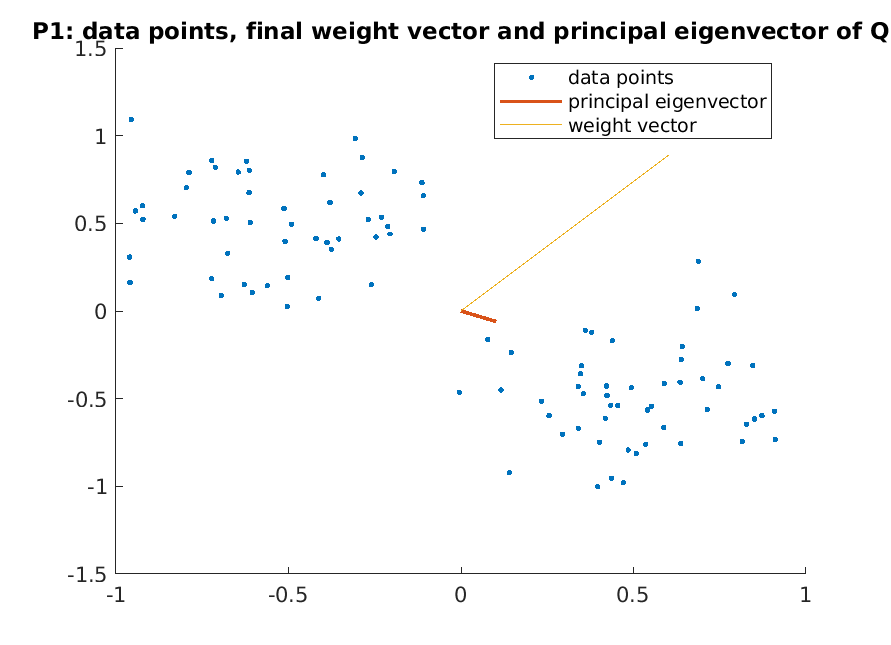
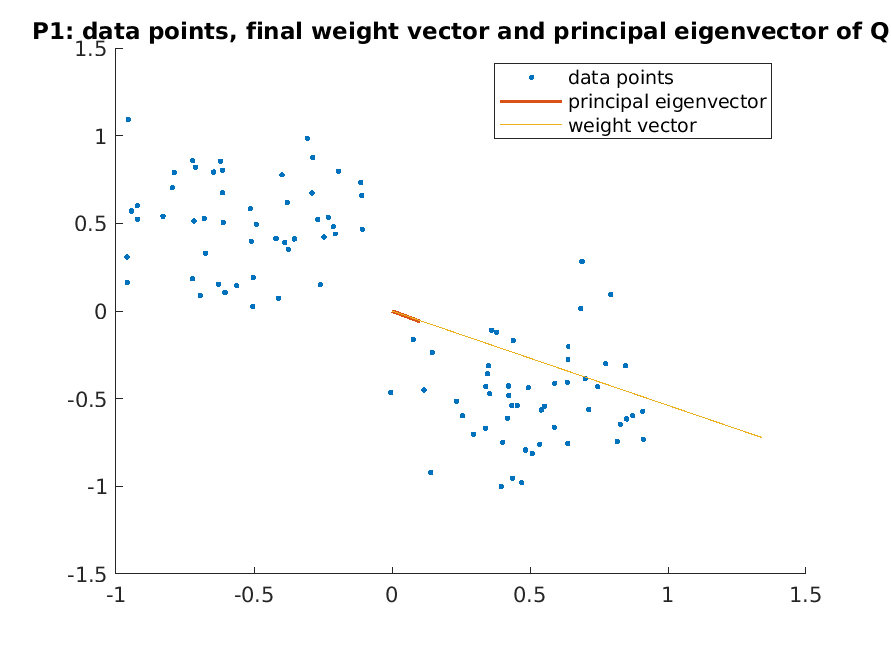
Oja learning rule

diff --git a/LAB2_1/Assignment2/oja_rule.m b/LAB2_1/Assignment2/oja_rule.m
@@ -1,4 +1,4 @@
-%%%%%%%%%%%%%%% Learning using Hebb Rule %%%%%%%%%%%%%%%
+%%%%%%%%%%%%%%% Learning using Oja Rule %%%%%%%%%%%%%%%
 clear variables;
 
 data = readtable('../lab2_1_data.csv');  % importing data as table
@@ -6,6 +6,7 @@ U = table2array(data);  % converting table into input array
 U_size = size(U,2);  % training set dimension
 eta = 10e-6;  % learning rate
 epochs=1000;  % iterations
+alpha = 10e-3;
 theta = 10e-6;  % threshold for early stopping
 Q = U'*U;  % input correlation matrix
 W_t = zeros(2, epochs);
@@ -20,8 +21,8 @@ for i = 1:epochs
     for n = 1:U_size
         % linear firing model
         v = W' * U(:,n);  % compute output
-        delta_W = eta * v  * U(:,n);
-        W = W + delta_W;  % update weights
+        delta_W = v * U(:,n) - (alpha * v^2 * W);  % Oja delta
+        W = W + eta * delta_W;  % update weights
     end
     
     W_norm(i) = w_norm;
